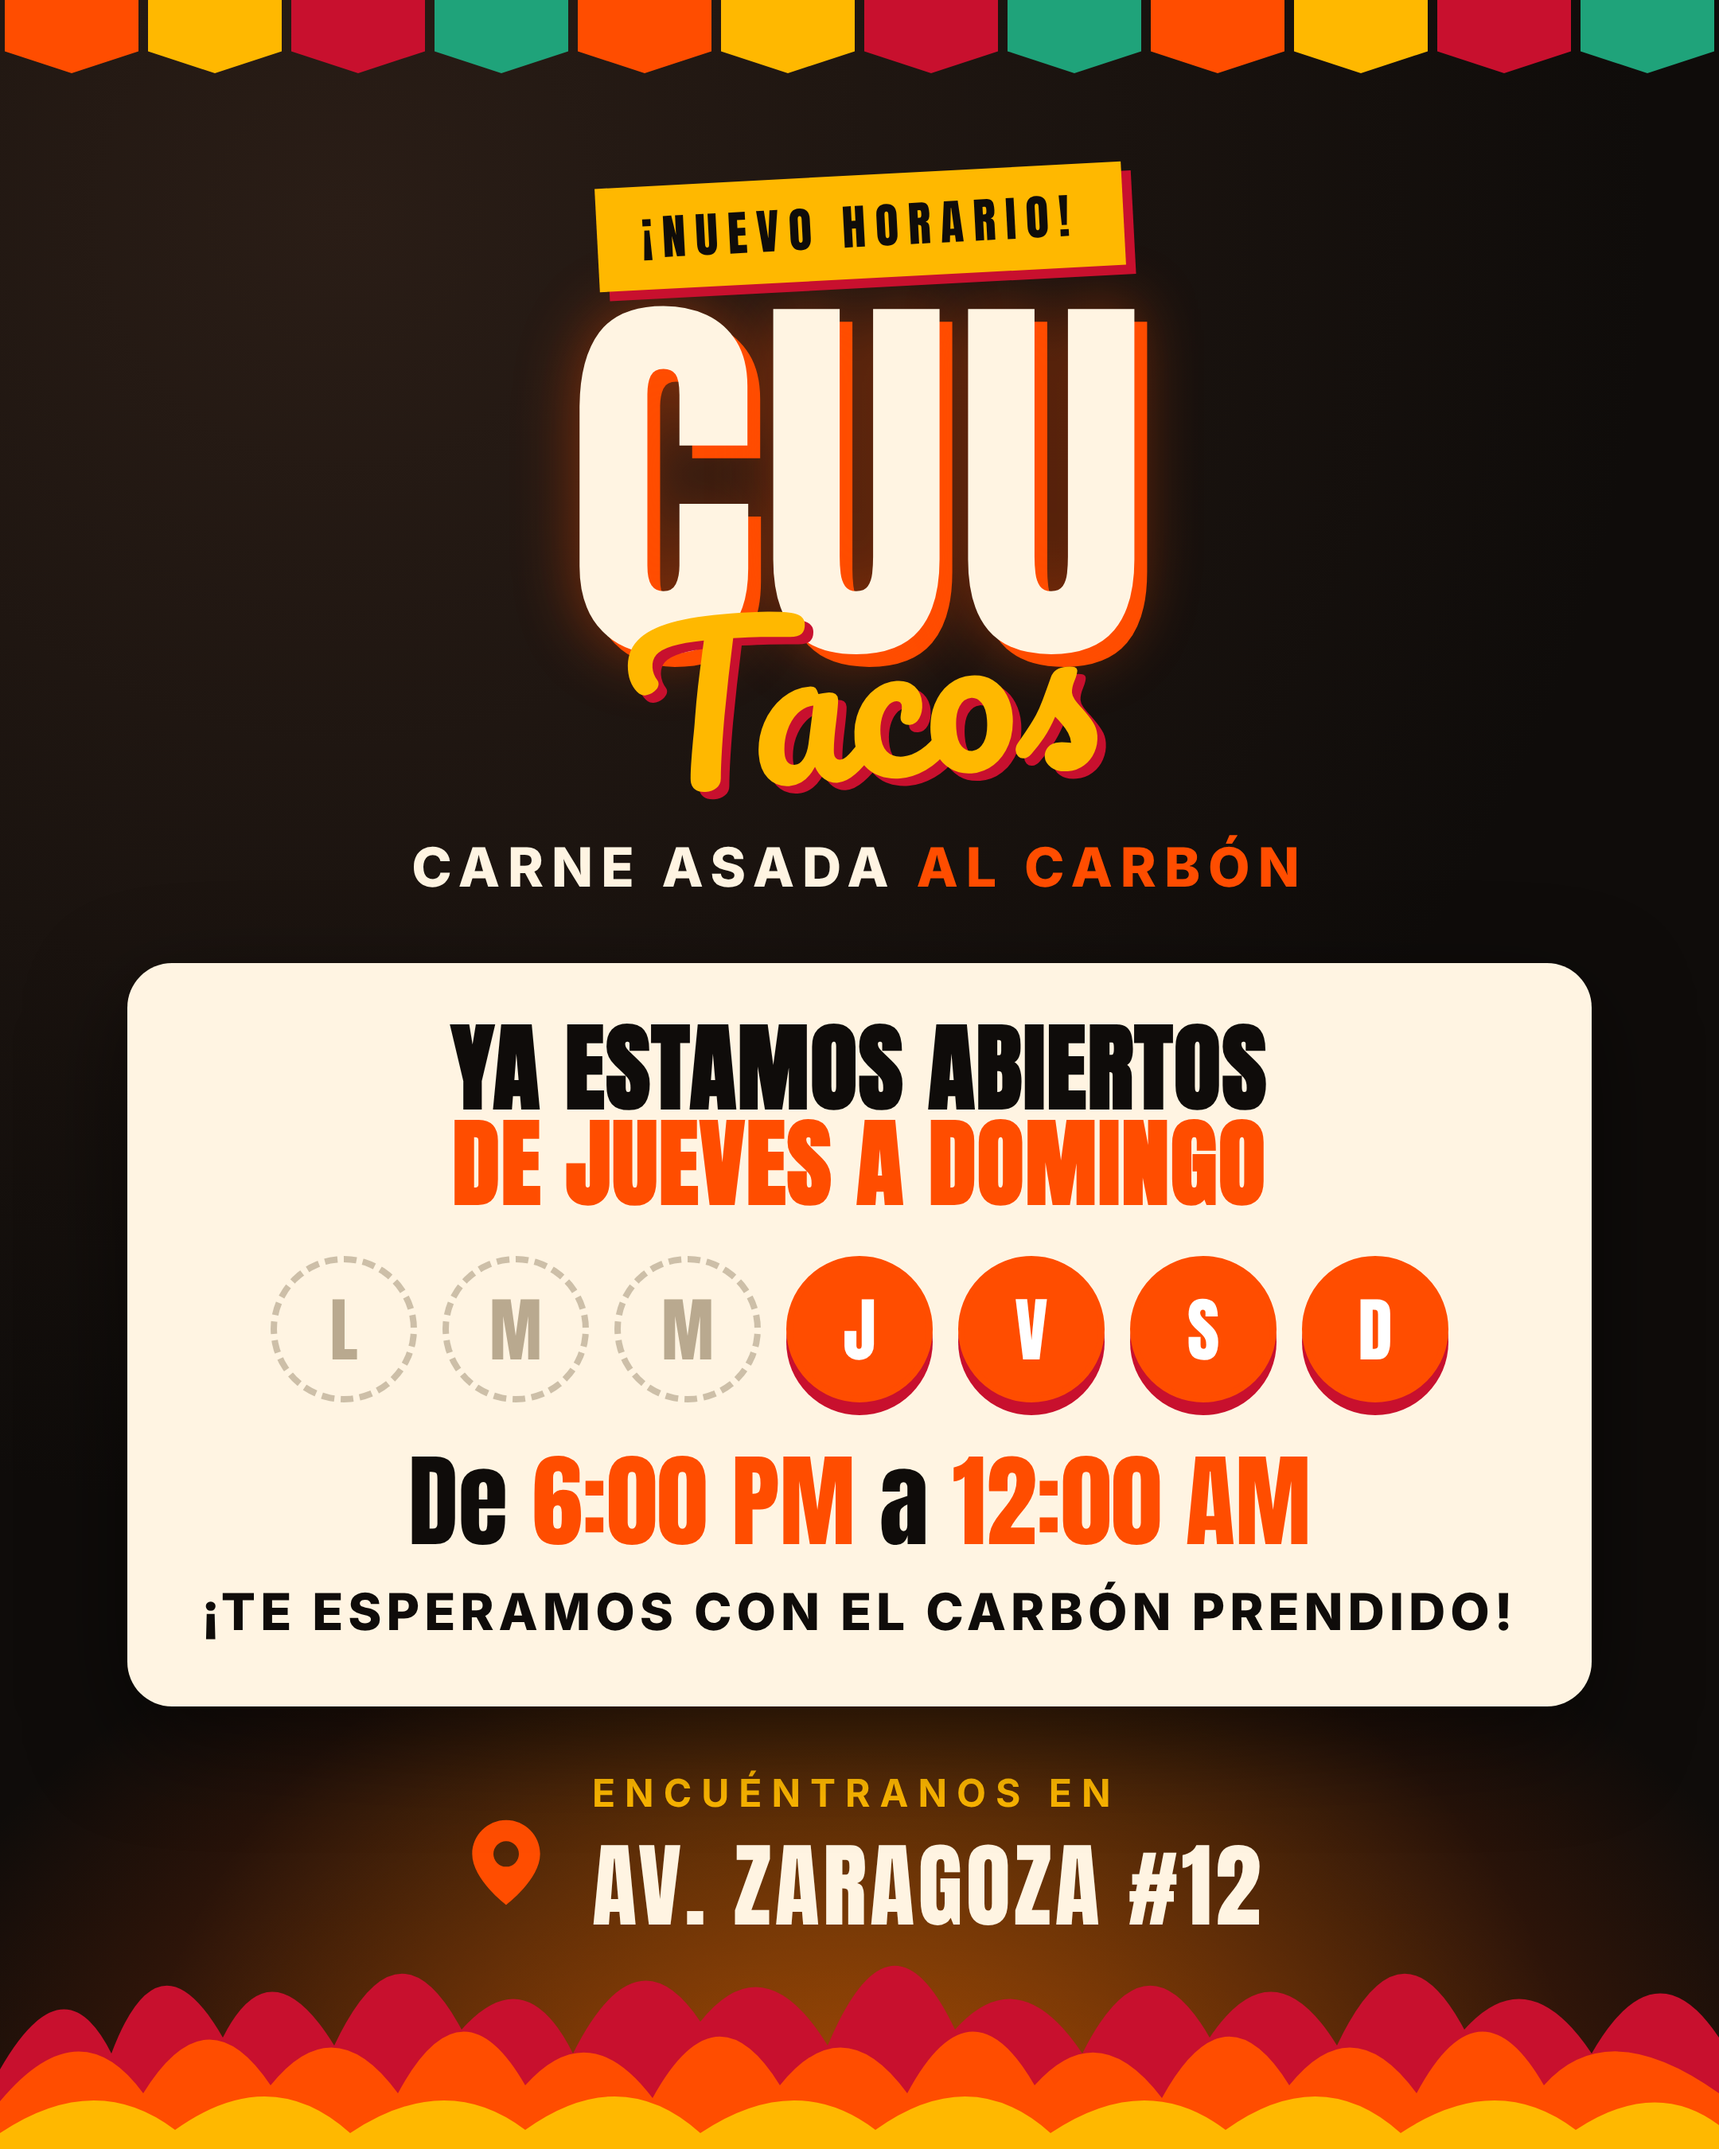
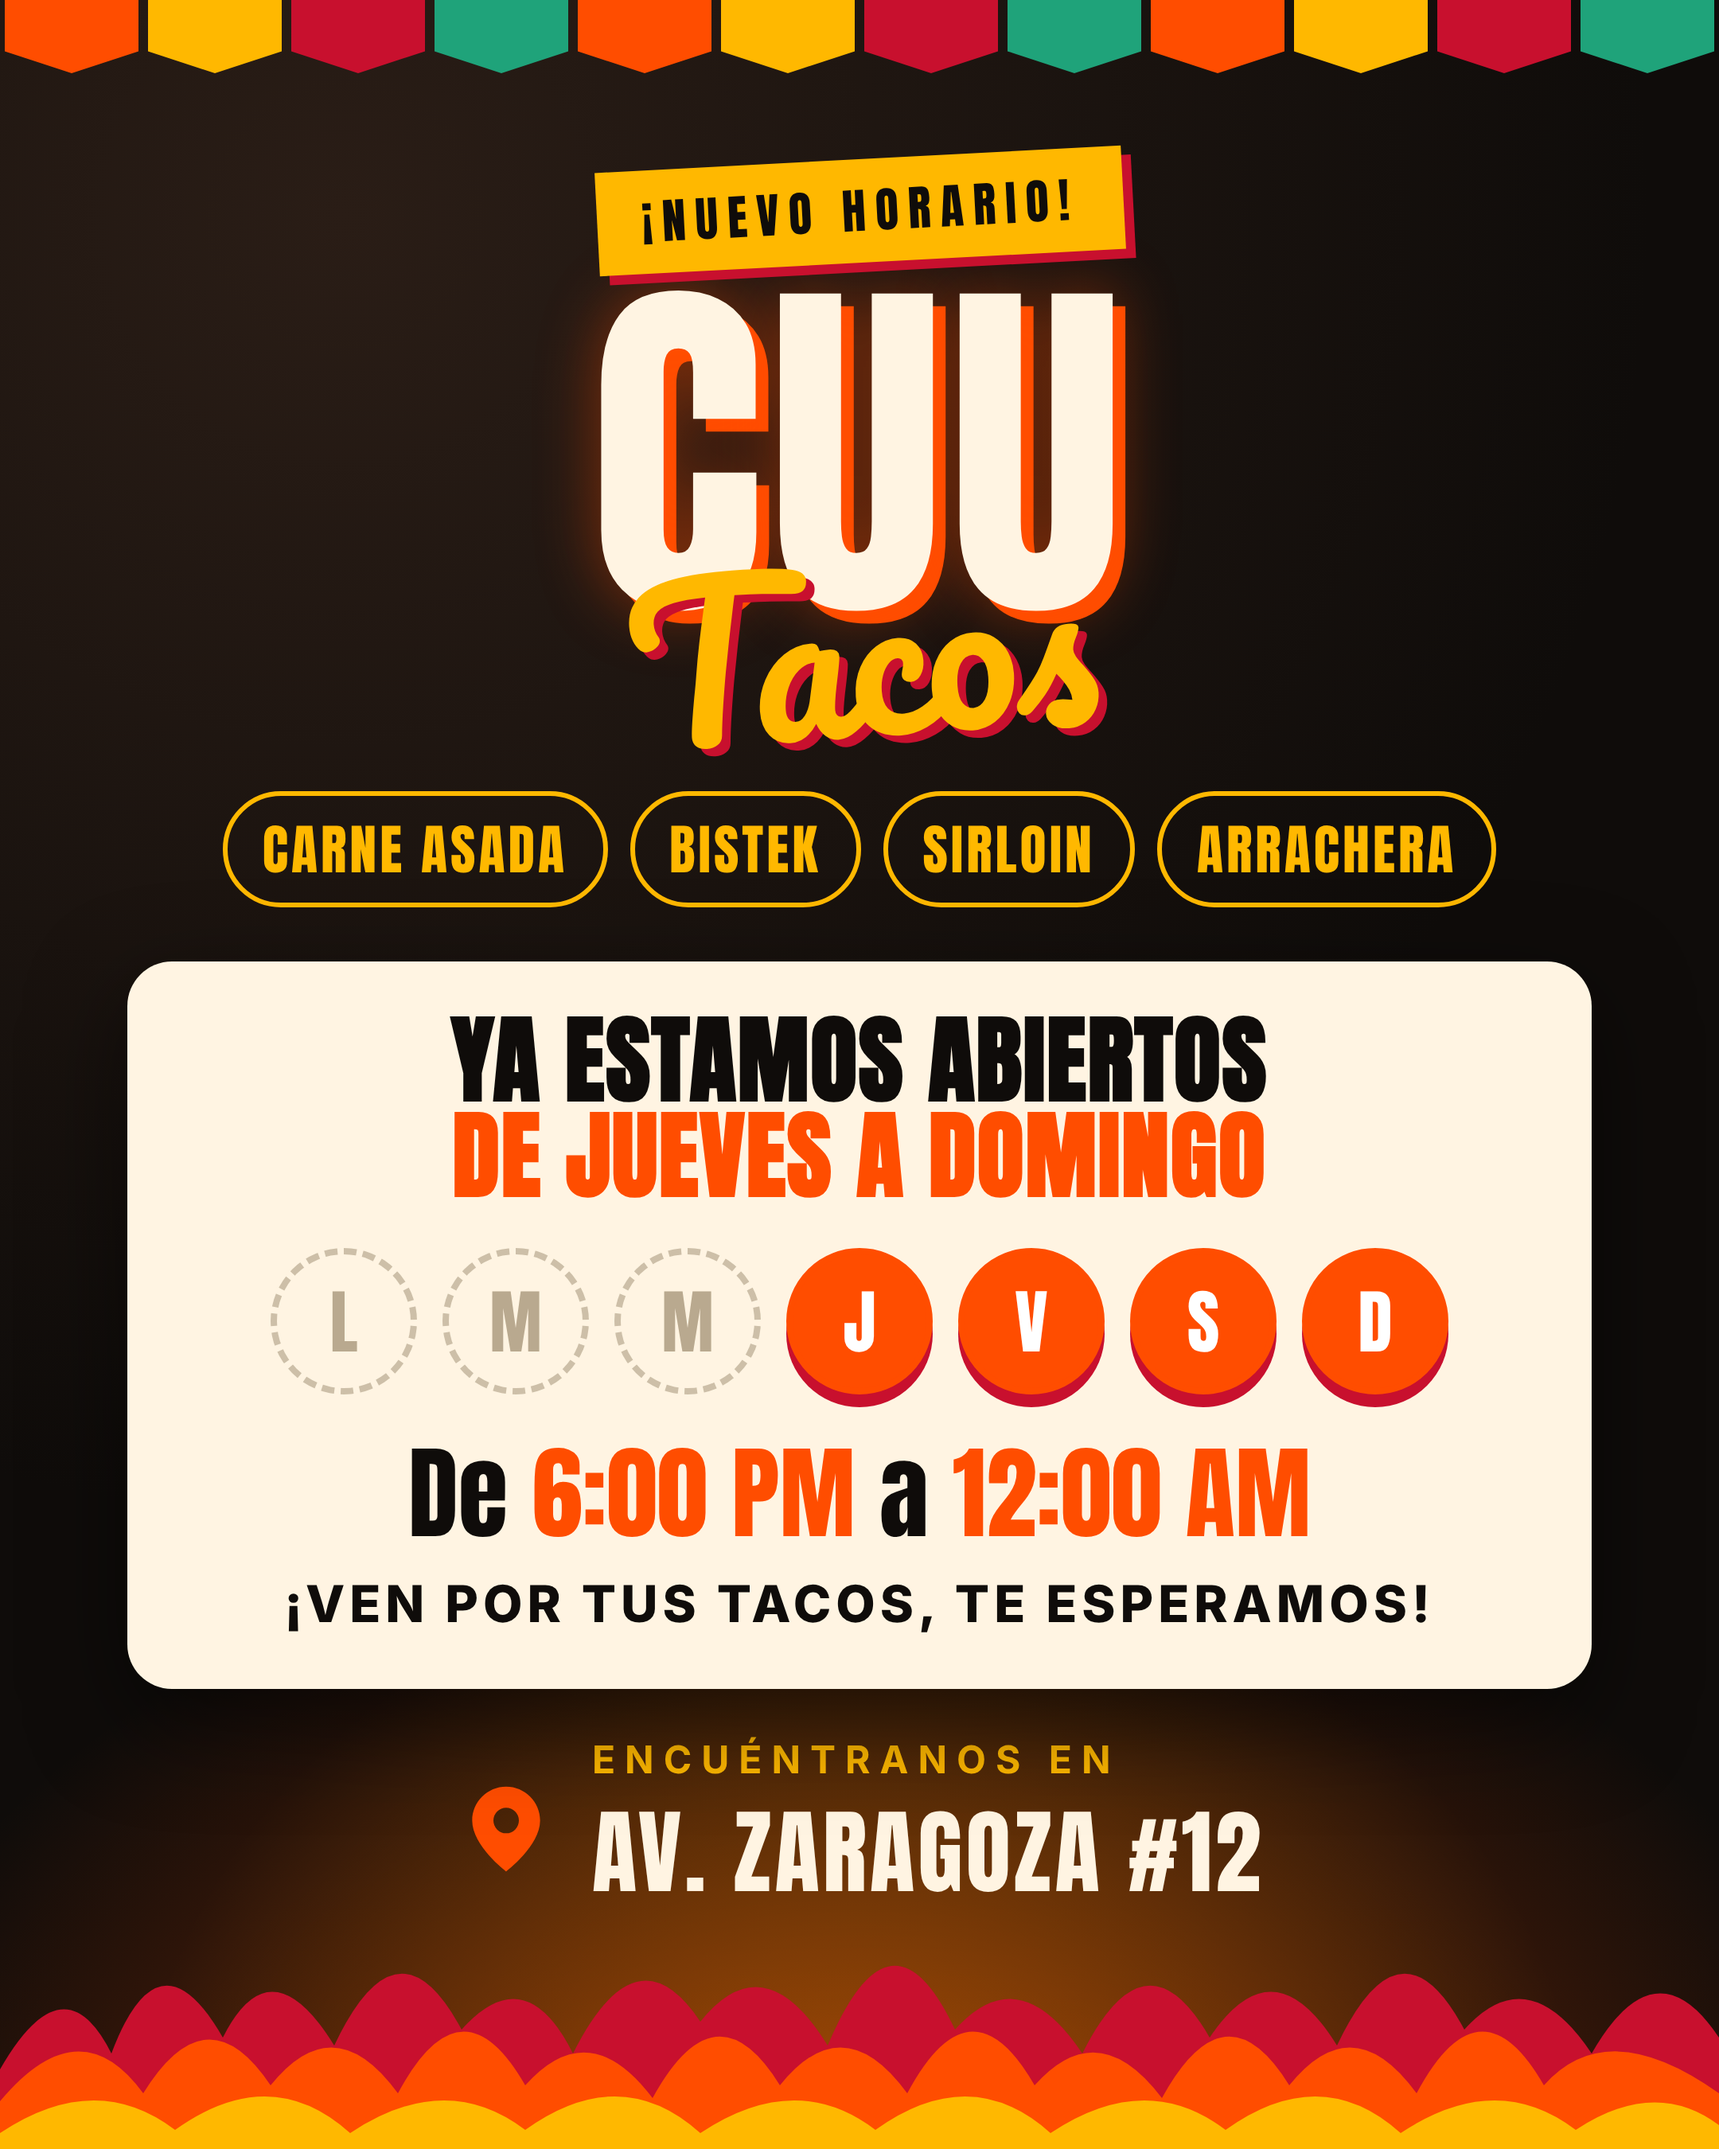
CUU Tacos flyer: list meats, drop carbón wording
Claude-Session: https://claude.ai/code/session_014CHHJhy7rNb7XQQ2cW4zXW

diff --git a/flyers/cuu-tacos/flyer.html b/flyers/cuu-tacos/flyer.html
@@ -36,7 +36,7 @@
   .picado span:nth-child(4n+4){background:#1FA37A}
 
   .badge {
-    margin-top: 40px;
+    margin-top: 30px;
     font-family: 'Anton', sans-serif; letter-spacing: 6px; font-size: 30px;
     background: var(--ember); color: var(--char);
     padding: 10px 28px; transform: rotate(-3deg);
@@ -46,21 +46,24 @@
     margin-top: 22px; text-align: center; line-height: .85;
     font-family: 'Anton', sans-serif; text-transform: uppercase;
   }
-  .brand .cuu { font-size: 250px; color: var(--cream); letter-spacing: 4px;
+  .brand .cuu { font-size: 230px; color: var(--cream); letter-spacing: 4px;
     text-shadow: 0 0 40px rgba(255,77,0,.45), 8px 8px 0 var(--fire); }
   .brand .tacos { font-family: 'Pacifico', cursive; text-transform: none;
     font-size: 130px; color: var(--ember); margin-top: -30px; display: block;
     transform: rotate(-4deg); text-shadow: 5px 5px 0 var(--chili); }
   .sub {
-    margin-top: 34px; font-weight: 800; font-size: 34px; letter-spacing: 5px;
+    margin-top: 26px; font-weight: 800; font-size: 34px; letter-spacing: 5px;
     text-transform: uppercase; color: var(--cream);
   }
   .sub b { color: var(--fire); }
+  .meats { margin-top: 34px; display: flex; gap: 14px; }
+  .meats span { font-family: 'Anton', sans-serif; font-size: 34px; letter-spacing: 2px; text-transform: uppercase;
+    padding: 8px 22px; border: 3px solid var(--ember); border-radius: 999px; color: var(--ember); }
 
   .announce {
-    margin-top: 40px; width: 100%;
+    margin-top: 34px; width: 100%;
     background: var(--cream); color: var(--char);
-    border-radius: 28px; padding: 36px 40px 40px; text-align: center;
+    border-radius: 28px; padding: 32px 40px 34px; text-align: center;
     box-shadow: 0 20px 60px rgba(0,0,0,.5);
     position: relative;
   }
@@ -81,7 +84,7 @@
   .range { margin-top: 18px; font-weight: 800; font-size: 32px; letter-spacing: 3px; text-transform: uppercase; }
 
   .loc {
-    margin-top: 40px; display: flex; align-items: center; gap: 22px;
+    margin-top: 30px; display: flex; align-items: center; gap: 22px;
     font-family: 'Anton', sans-serif; font-size: 58px; text-transform: uppercase; letter-spacing: 2px;
   }
   .loc svg { width: 64px; height: 64px; flex: none; }
@@ -102,7 +105,7 @@
     <span class="tacos">Tacos</span>
   </div>
 
-  <div class="sub">Carne asada <b>al carbón</b></div>
+  <div class="meats"><span>Carne asada</span><span>Bistek</span><span>Sirloin</span><span>Arrachera</span></div>
 
   <div class="announce">
     <h2>Ya estamos abiertos<br><em>de jueves a domingo</em></h2>
@@ -111,7 +114,7 @@
       <div class="day on">J</div><div class="day on">V</div><div class="day on">S</div><div class="day on">D</div>
     </div>
     <div class="hours">De <span>6:00 PM</span> a <span>12:00 AM</span></div>
-    <div class="range">¡Te esperamos con el carbón prendido!</div>
+    <div class="range">¡Ven por tus tacos, te esperamos!</div>
   </div>
 
   <div class="loc">
